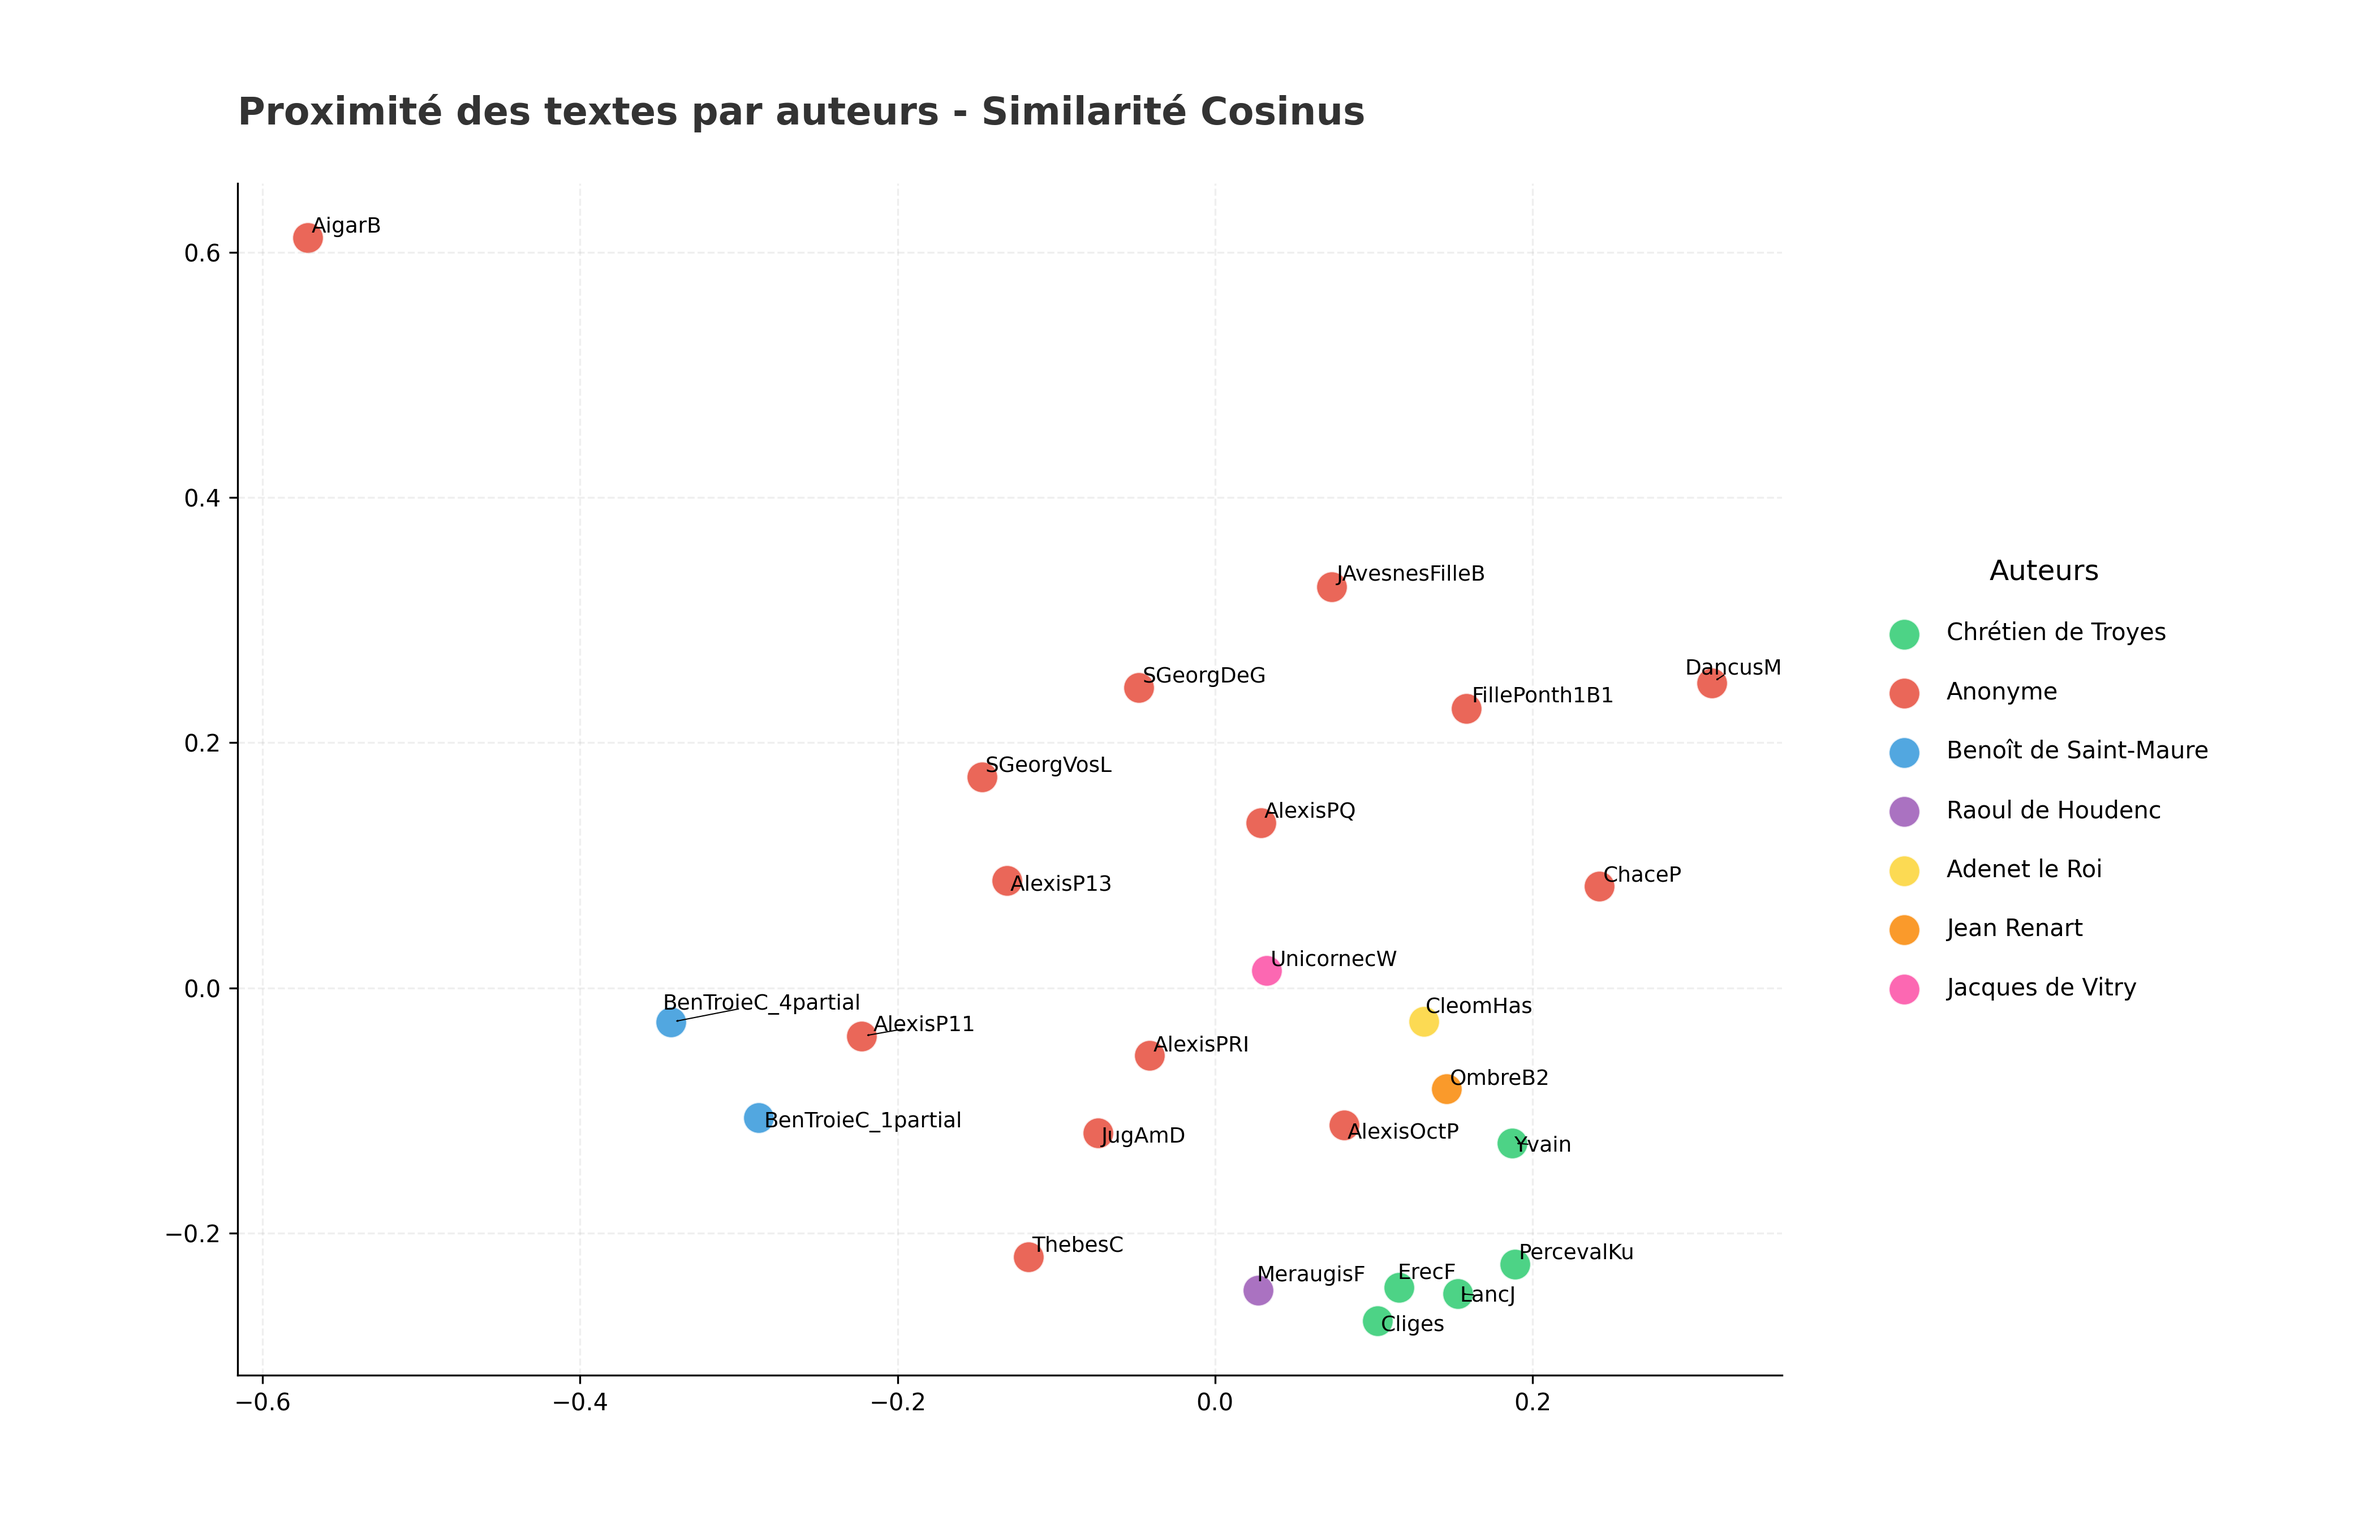
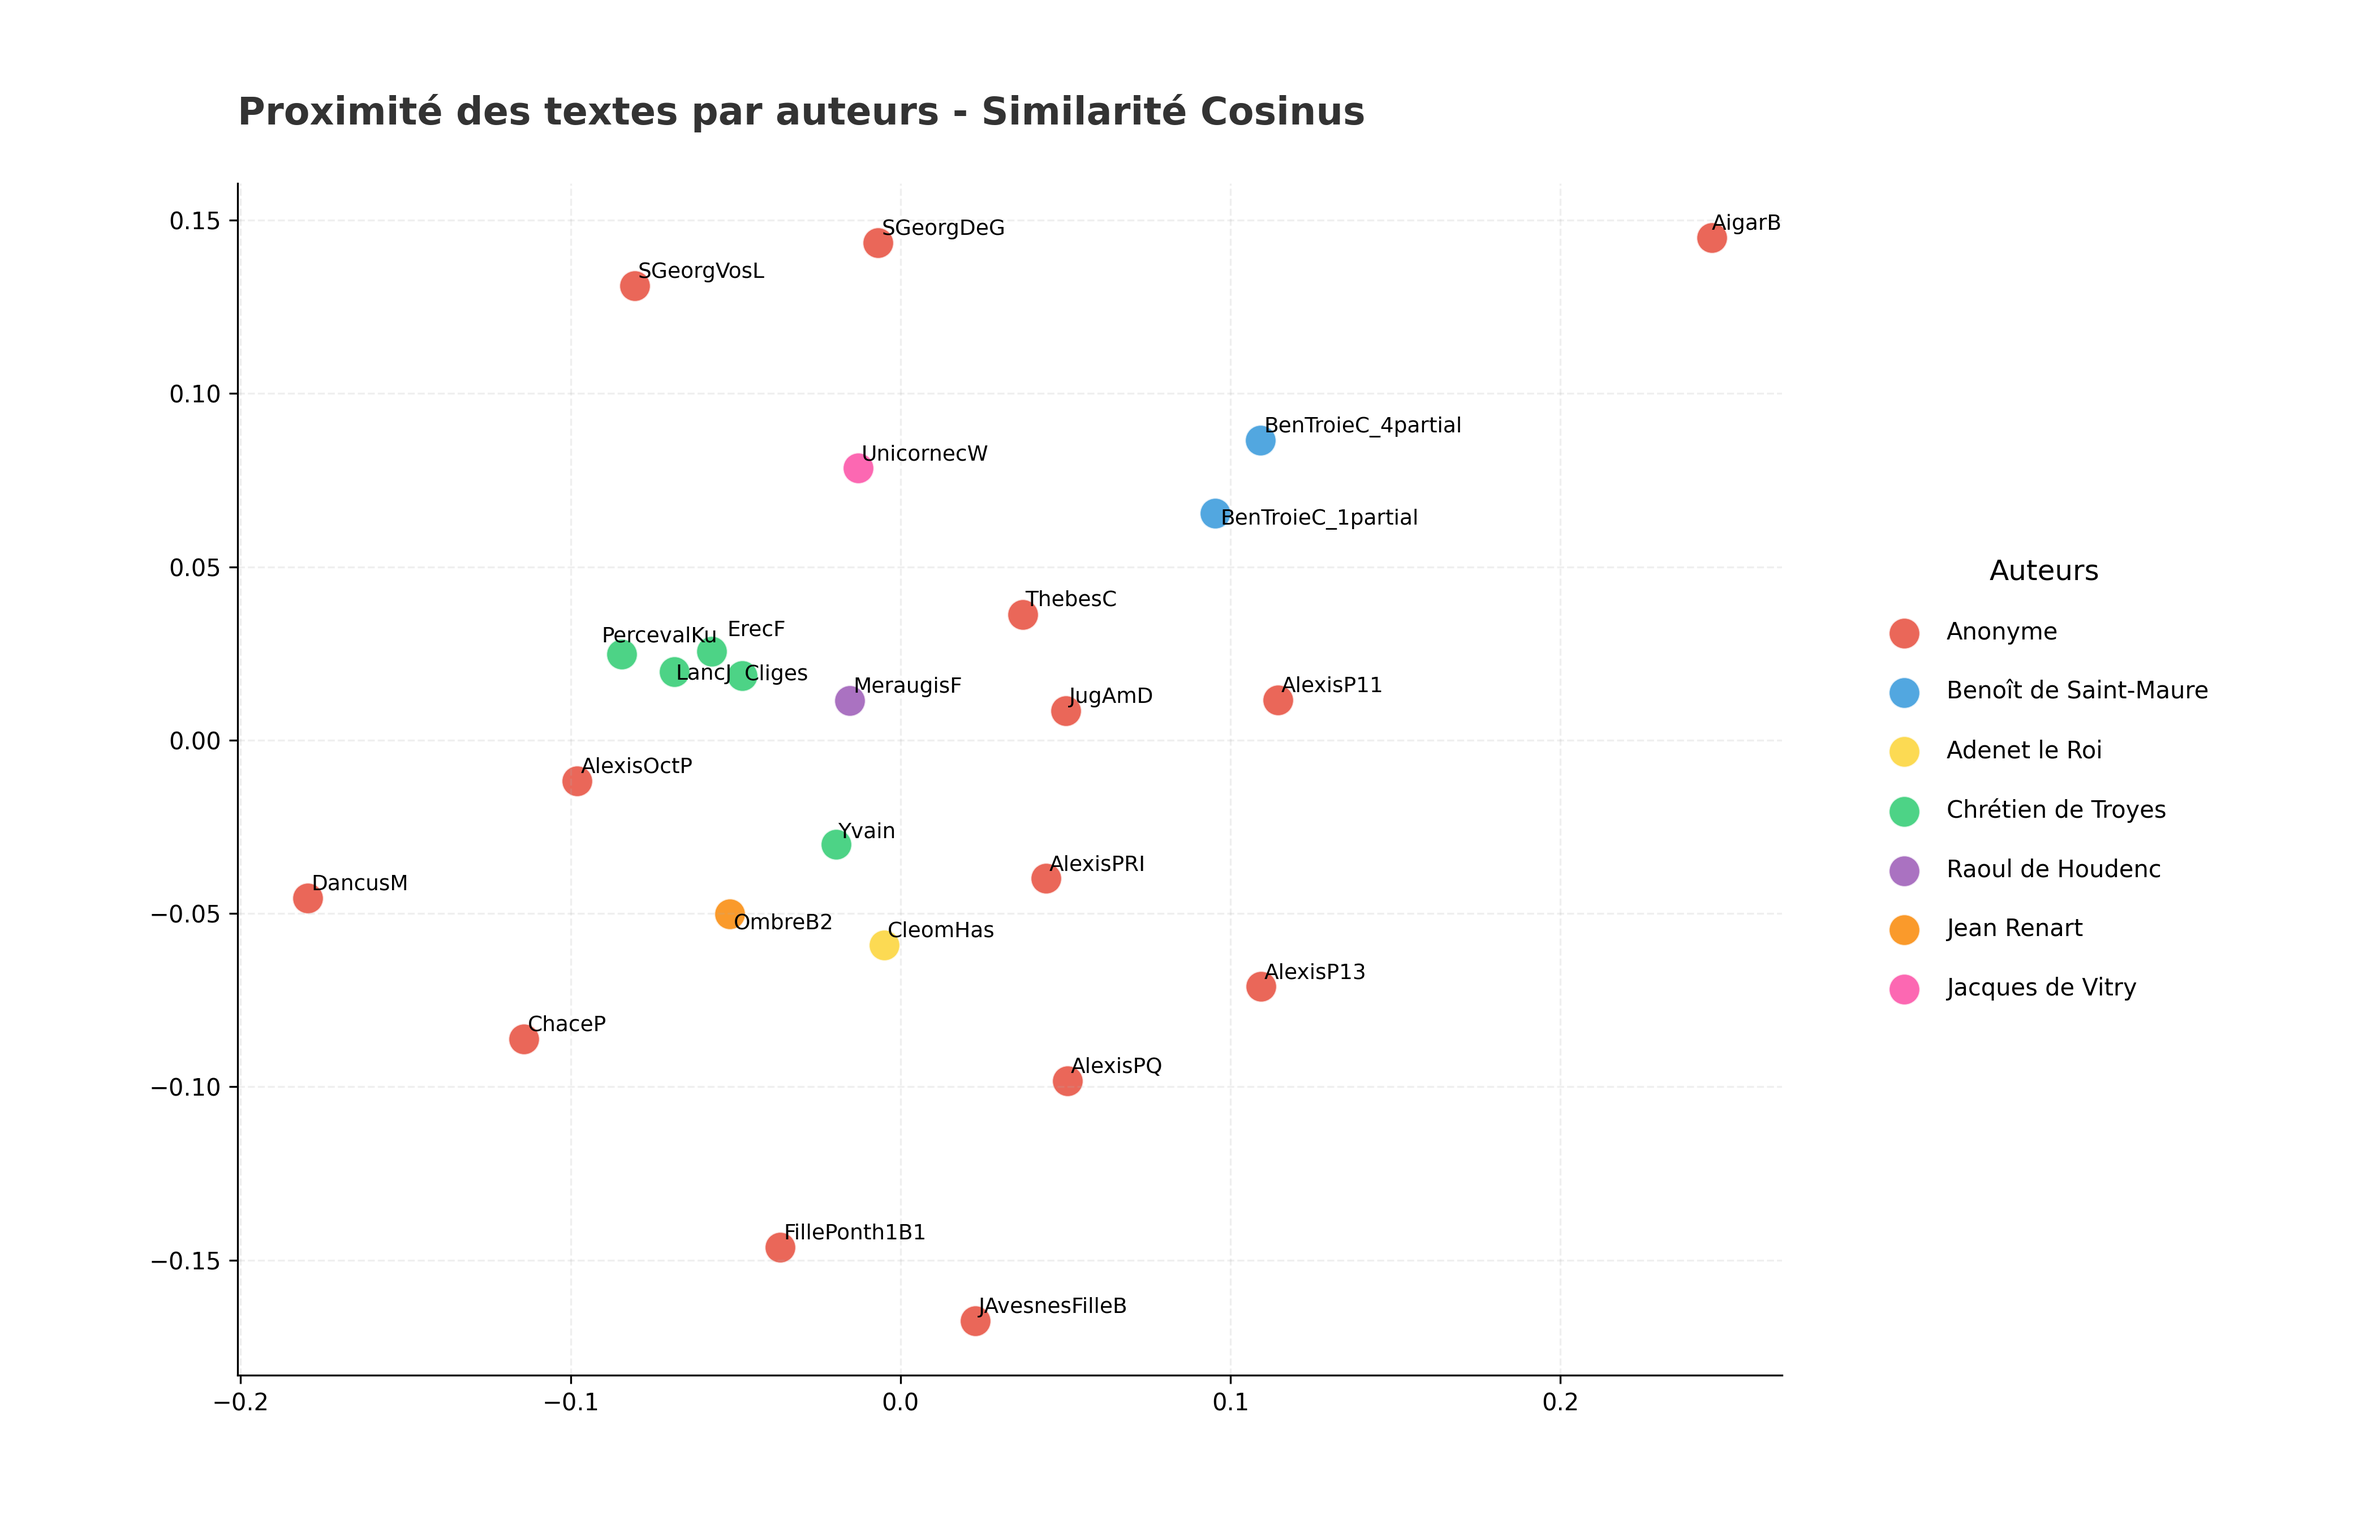
save

diff --git a/scripts/plots_generator.py b/scripts/plots_generator.py
@@ -6,6 +6,8 @@ from sklearn.manifold import MDS
 from adjustText import adjust_text
 import numpy as np
 from metrics import cos_np
+from scipy.cluster.hierarchy import dendrogram, linkage
+from scipy.spatial.distance import squareform
 
 def clean_label(name):
     for prefix in ['freq-filtered-', 'freq-', 'filtered-']:
@@ -98,25 +100,34 @@ def generate_similarity_plot(matrix_path, dico_path, output_dir, mode='genre'):
         texts.append(ax.text(pos[i, 0], pos[i, 1], txt, fontsize=9, fontweight='medium'))
 
     # 5. Ajustement des labels
-    adjust_text(texts, arrowprops=dict(arrowstyle='->', color='black', lw=0.5))
+    adjust_text(texts, 
+                x = pos[:,0],
+                y = pos[:,1],
+                force_text=(1.5, 2.0),
+                force_points=(2.0, 2.5),
+                expand_points = (1.8, 1.8))
     
-    # Légende positionnée de manière absolue par rapport à l'axe
-    ax.legend(handles_labels.values(), handles_labels.keys(),
+    # Paramètre légende
+    ordered_labels = [cat for cat in current_map.keys() if cat in handles_labels]
+    ordered_labels += [cat for cat in handles_labels.keys() if cat not in current_map]
+    ordered_handels = [handles_labels[cat] for cat in ordered_labels] 
+
+    ax.legend(ordered_handels, ordered_labels,
               title=conf['legend'], 
               title_fontsize='12',
               fontsize='10',
               loc='center left', 
-              bbox_to_anchor=(1.05, 0.5), # Coordonnées fixes
+              bbox_to_anchor=(1.05, 0.5),
               frameon=False,
               labelspacing=1.5)
 
-    # Titre via l'objet AX (plus précis pour l'alignement)
+    # Titre 
     ax.set_title(f"Proximité des textes {conf['title']} - Similarité Cosinus", 
                  loc='left', fontsize=16, pad=25, color='#333333', fontweight='bold')
     
     ax.grid(True, linestyle='--', alpha=0.2)
 
-    # 6. Sauvegarde stricte
+    # 6. Sauvegarde
     if not os.path.exists(output_dir): 
         os.makedirs(output_dir)
         
@@ -125,7 +136,72 @@ def generate_similarity_plot(matrix_path, dico_path, output_dir, mode='genre'):
     # On NE met PAS bbox_inches='tight' pour garder nos marges de subplots_adjust
     fig.savefig(output_path, dpi=300)
     plt.close(fig) 
-    print(f"Graphique généré avec succès : {output_path}")
+    print(f"Scatter Plot généré avec succès : {output_path}")
+
+
+def generate_dendogramme(matrix_path,dico_path, output_dir):
+    """
+    """
+    biblio = {}
+    try:
+        with open(dico_path, mode='r', encoding='utf-8') as f:
+            for ligne in f:
+                if ":" in ligne:
+                    cle, valeur = ligne.split(":", 1)
+                    biblio[cle.strip()] = valeur.strip()
+    except Exception as e:
+        print(f"Erreur lecture dico: {e}")
+        return
+    
+    df = pd.read_csv(matrix_path, sep='\t', index_col='ngramme')
+    df = df.dropna(axis=1, how="all")
+    df = df.fillna(0)
+    df.columns = [clean_label(col) for col in df.columns]
+
+    anonym = [col for col in df.columns if biblio.get(col) == 'Anonyme']
+    if len(anonym) <2:
+        print("Pas assez de textes d'auteus anonyms pour faire un arbre")
+        return
+    
+    df_anonym = df[anonym]
+    nb_txt = len(df_anonym.columns)
+    dissimilarity = np.zeros((nb_txt, nb_txt))
+
+    for i in range(nb_txt):
+        for j in range(nb_txt):
+            if i!=j:
+                v1 = df.iloc[:,i].values
+                v2 = df.iloc[:,j].values
+                
+                dist = max(0.0, 1.0 - cos_np(v1,v2))
+                dissimilarity[i,j] = dist
+                dissimilarity[j,i] = dist
+    condensed_dist = squareform(dissimilarity)
+    z = linkage(condensed_dist, method='average')
+
+    fig, ax = plt.subplots(figsize=(12, 7), dpi=100)
+
+    dendro = dendrogram(z,
+                        labels = df_anonym.columns,
+                        orientation = 'top',
+                        leaf_rotation=90,
+                        leaf_font_size=11,
+                        color_threshold=0.15,
+                        ax=ax)
+    
+    ax.spines[['top', 'right', 'bottom']].set_visible(False)
+    ax.set_title(f"Dendogramme des textes d'auteurs anonymes", loc='left', fontsize=16, pad=20, color='#333333', fontweight='bold')
+
+    if not os.path.exists(output_dir): 
+        os.makedirs(output_dir)
+        
+    output_path = os.path.join(output_dir, f"dendogramme_anonymes.png")
+    fig.subplots_adjust(left=0.08, right=0.95, top=0.85, bottom=0.25)
+    fig.savefig(output_path, dpi=300)
+    plt.close(fig) 
+    print(f"Dendogramme généré avec succès : {output_path}")
+
+
 
 # Exemple d'appel pour tes 3 fonctions d'origine :
 path_matrix = "/workspaces/medFR-paleao-NLP/results/matrix/matrix.tsv"
@@ -135,6 +211,7 @@ path_dic_authors = "/workspaces/medFR-paleao-NLP/data/metadata/dico_auteur.txt"
 path_out_dir = "/workspaces/medFR-paleao-NLP/results/scatter-plots"
 
 
-generate_similarity_plot(path_matrix, path_dic_genre, path_out_dir, mode='genre')
+"""generate_similarity_plot(path_matrix, path_dic_genre, path_out_dir, mode='genre')
 generate_similarity_plot(path_matrix, path_dic_dates, path_out_dir, mode='dates')
-generate_similarity_plot(path_matrix, path_dic_authors, path_out_dir, mode='auteurs')
+generate_similarity_plot(path_matrix, path_dic_authors, path_out_dir, mode='auteurs')"""
+generate_dendogramme(path_matrix, path_dic_authors, path_out_dir)

diff --git a/scripts/main2.py b/scripts/main2.py
@@ -4,7 +4,7 @@ import time
 from utils import load_biblio, clean_label, save_matrix_tsv
 from text_processor import TextProcessor
 from analyse import create_comparison_matrix, generate_report, compare_files
-# scatterplot 
+from plots_generator import generate_similarity_plot 
 # lcs
 
 if __name__ == "__main__":
@@ -59,7 +59,7 @@ if __name__ == "__main__":
     compare_files(matrix, txt_names, compare_out_dir)
 
     # E3 : LCS
-    
+
     # E4 : Scatter plot
 
     # E5 : Génération d'un rapport
